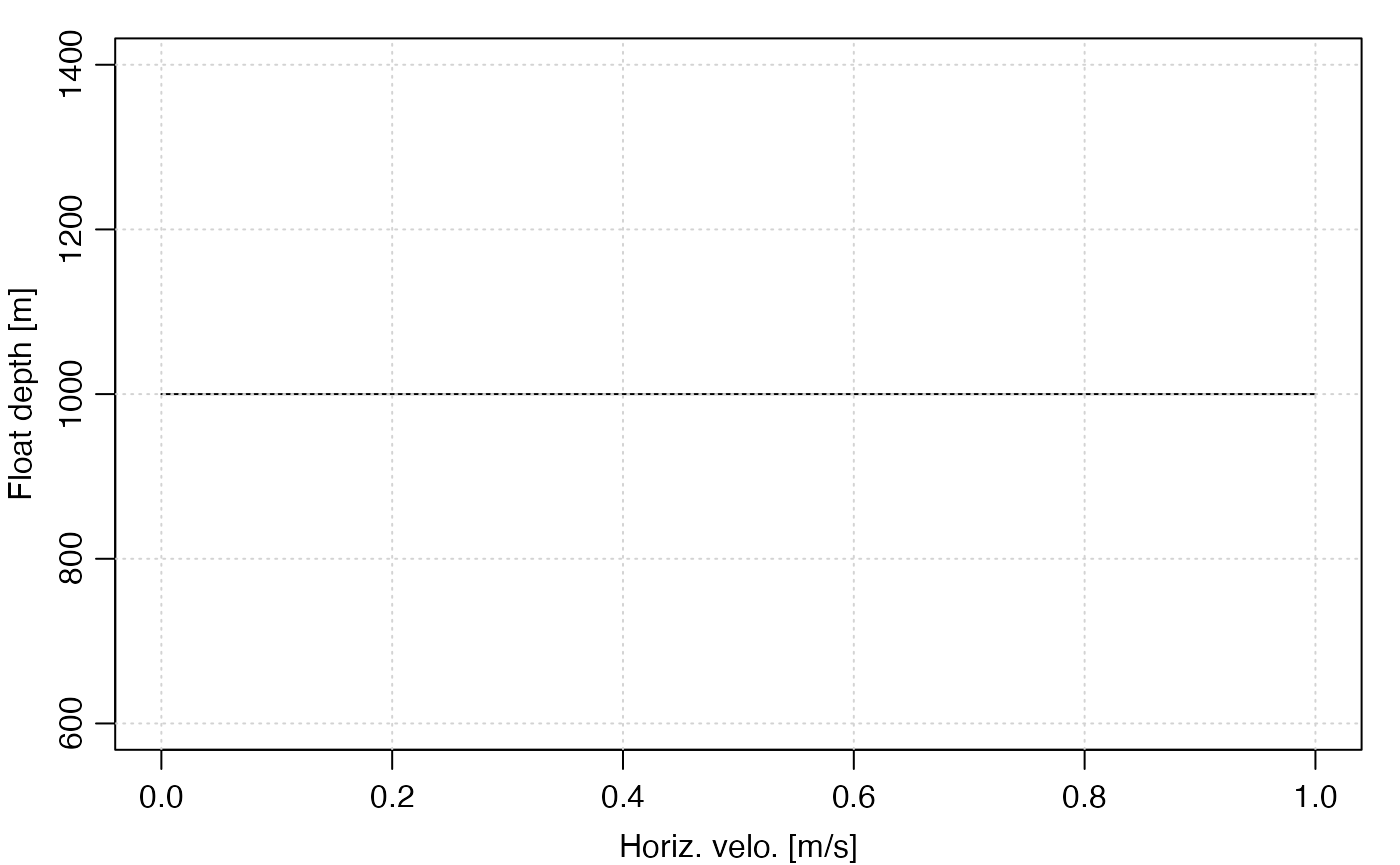
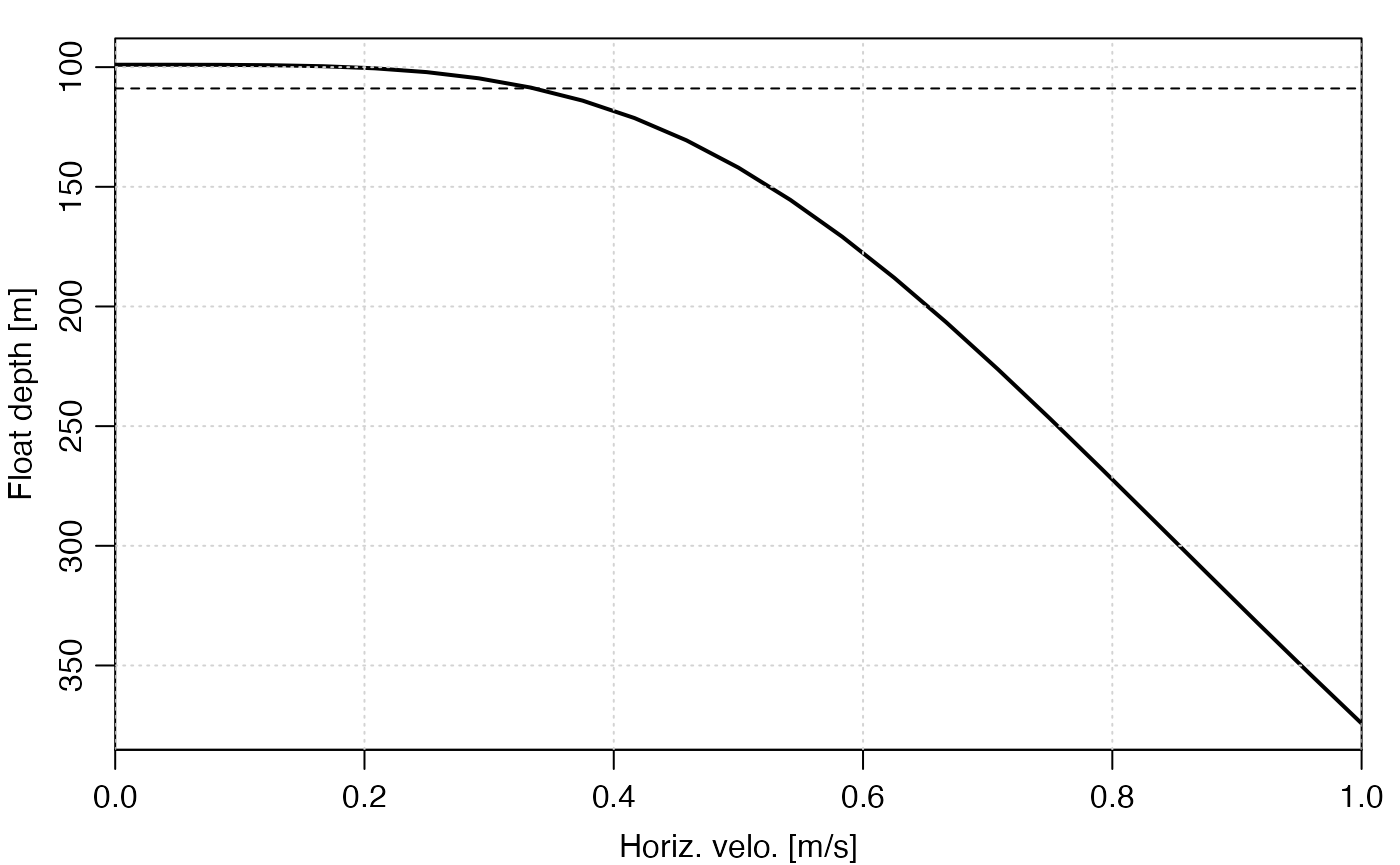
fix broken vignette knockdown demo
I was showing the height of the bottom element instead of the top one.
This was a result of my having reversed the order of entries in
mooring() output.

diff --git a/docs/articles/mooring.html b/docs/articles/mooring.html
@@ -97,7 +97,7 @@
       <h1 data-toc-skip>The mooring package</h1>
                         <h4 class="author">Dan Kelley (<a href="https://orcid.org/0000-0001-7808-5911" class="uri">https://orcid.org/0000-0001-7808-5911</a>)</h4>
             
-            <h4 class="date">2021-06-27</h4>
+            <h4 class="date">2021-06-28</h4>
       
       <small class="dont-index">Source: <a href="https://github.com/dankelley/mooring/blob/master/vignettes/mooring.Rmd"><code>vignettes/mooring.Rmd</code></a></small>
       <div class="hidden name"><code>mooring.Rmd</code></div>
@@ -274,20 +274,20 @@
 <span class="va">depths</span> <span class="op">&lt;-</span> <span class="fu"><a href="https://rdrr.io/r/base/lapply.html">sapply</a></span><span class="op">(</span><span class="va">us</span>, <span class="kw">function</span><span class="op">(</span><span class="va">u</span><span class="op">)</span>
                  <span class="op">{</span>
                      <span class="va">mdk</span> <span class="op">&lt;-</span> <span class="fu"><a href="../reference/knockdown.html">knockdown</a></span><span class="op">(</span><span class="va">md</span>, <span class="va">u</span><span class="op">)</span>
-                     <span class="fu"><a href="../reference/depth.html">depth</a></span><span class="op">(</span><span class="fu"><a href="https://rdrr.io/r/utils/head.html">tail</a></span><span class="op">(</span><span class="va">mdk</span>,<span class="fl">1</span><span class="op">)</span><span class="op">)</span>
+                     <span class="fu"><a href="../reference/depth.html">depth</a></span><span class="op">(</span><span class="va">mdk</span><span class="op">)</span><span class="op">[</span><span class="fl">1</span><span class="op">]</span>
                  <span class="op">}</span><span class="op">)</span>
 <span class="fu"><a href="https://rdrr.io/r/graphics/par.html">par</a></span><span class="op">(</span>mar<span class="op">=</span><span class="fu"><a href="https://rdrr.io/r/base/c.html">c</a></span><span class="op">(</span><span class="fl">3</span>,<span class="fl">3</span>,<span class="fl">1</span>,<span class="fl">1</span><span class="op">)</span>, mgp<span class="op">=</span><span class="fu"><a href="https://rdrr.io/r/base/c.html">c</a></span><span class="op">(</span><span class="fl">2</span>,<span class="fl">0.7</span>,<span class="fl">0</span><span class="op">)</span><span class="op">)</span>
-<span class="fu"><a href="https://rdrr.io/r/graphics/plot.default.html">plot</a></span><span class="op">(</span><span class="va">us</span>, <span class="va">depths</span>, ylim<span class="op">=</span><span class="fu"><a href="https://rdrr.io/r/base/rev.html">rev</a></span><span class="op">(</span><span class="fu"><a href="https://rdrr.io/r/base/range.html">range</a></span><span class="op">(</span><span class="va">depths</span><span class="op">)</span><span class="op">)</span>, type<span class="op">=</span><span class="st">"l"</span>, pch<span class="op">=</span><span class="fl">20</span>, cex<span class="op">=</span><span class="fl">0.5</span>,
+<span class="fu"><a href="https://rdrr.io/r/graphics/plot.default.html">plot</a></span><span class="op">(</span><span class="va">us</span>, <span class="va">depths</span>, xaxs<span class="op">=</span><span class="st">"i"</span>, ylim<span class="op">=</span><span class="fu"><a href="https://rdrr.io/r/base/rev.html">rev</a></span><span class="op">(</span><span class="fu"><a href="https://rdrr.io/r/base/range.html">range</a></span><span class="op">(</span><span class="va">depths</span><span class="op">)</span><span class="op">)</span>, type<span class="op">=</span><span class="st">"l"</span>, lwd<span class="op">=</span><span class="fl">2</span>,
      xlab<span class="op">=</span><span class="st">"Horiz. velo. [m/s]"</span>, ylab<span class="op">=</span><span class="st">"Float depth [m]"</span><span class="op">)</span>
 <span class="fu"><a href="https://rdrr.io/r/graphics/grid.html">grid</a></span><span class="op">(</span><span class="op">)</span>
-<span class="fu"><a href="https://rdrr.io/r/graphics/abline.html">abline</a></span><span class="op">(</span>h<span class="op">=</span><span class="fl">100</span><span class="op">*</span><span class="fu"><a href="https://rdrr.io/r/base/c.html">c</a></span><span class="op">(</span><span class="fl">1</span>, <span class="fl">1.1</span><span class="op">)</span>, col<span class="op">=</span><span class="fu"><a href="https://rdrr.io/r/base/c.html">c</a></span><span class="op">(</span><span class="fl">4</span>,<span class="fl">2</span><span class="op">)</span><span class="op">)</span></code></pre></div>
+<span class="fu"><a href="https://rdrr.io/r/graphics/abline.html">abline</a></span><span class="op">(</span>h<span class="op">=</span><span class="fl">1.1</span><span class="op">*</span><span class="fu"><a href="../reference/depth.html">depth</a></span><span class="op">(</span><span class="va">md</span><span class="op">)</span><span class="op">[</span><span class="fl">1</span><span class="op">]</span>, lty<span class="op">=</span><span class="fl">2</span><span class="op">)</span></code></pre></div>
 <div class="figure" style="text-align: center">
-<img src="mooring_files/figure-html/unnamed-chunk-13-1.png" alt="**Dependence of knockdown on current.**" width="700.0000032"><p class="caption">
-<strong>Dependence of knockdown on current.</strong>
+<img src="mooring_files/figure-html/unnamed-chunk-13-1.png" alt="**Dependence of knockdown on current. Solid: depth of top mooring element (a float). Dashed: 10% increase in that depth.**" width="700.0000032"><p class="caption">
+<strong>Dependence of knockdown on current. Solid: depth of top mooring element (a float). Dashed: 10% increase in that depth.</strong>
 </p>
 </div>
-<p>The blue and red horizontal lines indicate zero knockdown (for zero current) and 10 percent knockdown, respectively. The diagram suggests that if a 10 depth increase is taken as a design limit, that this float will be sufficient up to speeds of approximately <span class="math inline">\(0.3\)</span>m/s.</p>
-<p><strong>Exercise 3: Find a float that will hold this mooring taut in 2m/s current.</strong></p>
+<p>This analysis suggests that a <span class="math inline">\(0.3\)</span>m/s current could yield a 10 percent increase in depth of the top mooring element, so the mooring needs more buoyancy if greater mooring stiffness is required, or if currents exceed this value.</p>
+<p><strong>Exercise 3: Suggest a float that will hold this mooring taut in 2m/s current.</strong></p>
 </div>
 </div>
 <div id="solutions-to-exercises" class="section level1">
@@ -333,11 +333,11 @@
 <span class="fu"><a href="https://rdrr.io/r/graphics/plot.default.html">plot</a></span><span class="op">(</span><span class="va">df</span><span class="op">$</span><span class="va">drag</span>, <span class="va">df</span><span class="op">$</span><span class="va">buoyancy</span>, xlab<span class="op">=</span><span class="st">"Drag Force [N]"</span>, ylab<span class="op">=</span><span class="st">"Buoyancy Force [N]"</span>, log<span class="op">=</span><span class="st">"xy"</span><span class="op">)</span>
 <span class="co"># 3</span>
 <span class="va">drag</span> <span class="op">&lt;-</span> <span class="fu"><a href="https://rdrr.io/r/base/seq.html">seq</a></span><span class="op">(</span><span class="fu"><a href="https://rdrr.io/r/base/Extremes.html">min</a></span><span class="op">(</span><span class="va">df</span><span class="op">$</span><span class="va">drag</span><span class="op">)</span>, <span class="fu"><a href="https://rdrr.io/r/base/Extremes.html">max</a></span><span class="op">(</span><span class="va">df</span><span class="op">$</span><span class="va">drag</span><span class="op">)</span>, length.out<span class="op">=</span><span class="fl">100</span><span class="op">)</span>
-<span class="va">buoyancy</span> <span class="op">&lt;-</span> <span class="va">drag</span><span class="op">^</span><span class="op">(</span><span class="fl">3</span><span class="op">/</span><span class="fl">2</span><span class="op">)</span>
+<span class="va">buoyancy</span> <span class="op">&lt;-</span> <span class="fl">10</span><span class="op">*</span><span class="va">drag</span><span class="op">^</span><span class="op">(</span><span class="fl">3</span><span class="op">/</span><span class="fl">2</span><span class="op">)</span> <span class="co"># the factor is just for illustration</span>
 <span class="fu"><a href="https://rdrr.io/r/graphics/lines.html">lines</a></span><span class="op">(</span><span class="va">drag</span>, <span class="va">buoyancy</span><span class="op">)</span></code></pre></div>
 <div class="figure" style="text-align: center">
-<img src="mooring_files/figure-html/unnamed-chunk-16-1.png" alt="**Float drag-buoyancy relationship.**" width="700.0000032"><p class="caption">
-<strong>Float drag-buoyancy relationship.</strong>
+<img src="mooring_files/figure-html/unnamed-chunk-16-1.png" alt="**Float drag-buoyancy relationship, in log-log scaling. Circles: data for the built-in float types, assuming a 1m/s current. Line: a scaling line of slope 3/2, with an arbitrary vertical shift for comparison with the data cloud.**" width="700.0000032"><p class="caption">
+<strong>Float drag-buoyancy relationship, in log-log scaling. Circles: data for the built-in float types, assuming a 1m/s current. Line: a scaling line of slope 3/2, with an arbitrary vertical shift for comparison with the data cloud.</strong>
 </p>
 </div>
 <p>The data cloud slope is similar to that of the indicated scaling line, created by assuming that drag is proportional to scale squared, while buoyancy is proportional to scale cubed. (Other factors are involved, so only the slope is of significance here.)</p>
@@ -346,7 +346,7 @@
 <div id="exercise-3" class="section level2">
 <h2 class="hasAnchor">
 <a href="#exercise-3" class="anchor"></a>Exercise 3</h2>
-<p>To find a float that will hold this mooring taut in 2m/s current, one approach is to use <code><a href="../reference/app.html">app()</a></code>, which has a pulldown menu for the float type. Another approach is to start with the table produced in Exercise 1, and try different float models in the code given in the “Mooring Design” section.</p>
+<p>To find a float that will hold this mooring reasonably taut in 2m/s current, one approach is to use <code><a href="../reference/app.html">app()</a></code>, which has a pulldown menu for the float type. Another approach is to start with the table produced in Exercise 1, and try different float models in the code given in the “Mooring Design” section. Of course, a criterion on tautness must be the starting point in such an analysis, and for simplicity, we take it to be 10 percent increase in the depth of the top mooring element.</p>
 <p>Exploration along these lines reveals that</p>
 <div class="sourceCode" id="cb20"><pre class="downlit sourceCode r">
 <code class="sourceCode R"><span class="va">f</span> <span class="op">&lt;-</span> <span class="fu"><a href="../reference/float.html">float</a></span><span class="op">(</span><span class="st">"CDMS 2m sphere"</span><span class="op">)</span></code></pre></div>

diff --git a/docs/reference/mooring-package.html b/docs/reference/mooring-package.html
@@ -6,7 +6,7 @@
 <meta http-equiv="X-UA-Compatible" content="IE=edge">
 <meta name="viewport" content="width=device-width, initial-scale=1.0">
 
-<title>Create a mooring — mooring • mooring</title>
+<title>mooring: A Package for Analysing Oceanographic Moorings — mooring-package • mooring</title>
 
 
 <!-- jquery -->
@@ -39,10 +39,13 @@
 
 
 
-<meta property="og:title" content="Create a mooring — mooring" />
-<meta property="og:description" content="Assemble components into a mooring, starting with an anchor, created with anchor(),
-and then adding wires, created with wire(), instruments, created with instrument(),
-floats, created with float(), etc." />
+<meta property="og:title" content="mooring: A Package for Analysing Oceanographic Moorings — mooring-package" />
+<meta property="og:description" content="The mooring package provides functions for working with
+oceanographic moorings.  The example provides a good
+starting point for learning, and the documentation
+for the key function, mooring(), provides the
+next logical step in learning, after which the
+vignettes should be consulted." />
 
 
 
@@ -137,54 +140,37 @@ floats, created with float(), etc." />
 <div class="row">
   <div class="col-md-9 contents">
     <div class="page-header">
-    <h1>Create a mooring</h1>
+    <h1>mooring: A Package for Analysing Oceanographic Moorings</h1>
     <small class="dont-index">Source: <a href='https://github.com/dankelley/mooring/blob/master/R/mooring.R'><code>R/mooring.R</code></a></small>
-    <div class="hidden name"><code>mooring.Rd</code></div>
+    <div class="hidden name"><code>mooring-package.Rd</code></div>
     </div>
 
     <div class="ref-description">
-    <p>Assemble components into a mooring, starting with an anchor, created with <code><a href='anchor.html'>anchor()</a></code>,
-and then adding wires, created with <code><a href='wire.html'>wire()</a></code>, instruments, created with <code><a href='instrument.html'>instrument()</a></code>,
-floats, created with <code><a href='float.html'>float()</a></code>, etc.</p>
+    <p>The mooring package provides functions for working with
+oceanographic moorings.  The example provides a good
+starting point for learning, and the documentation
+for the key function, <code><a href='mooring.html'>mooring()</a></code>, provides the
+next logical step in learning, after which the
+vignettes should be consulted.</p>
     </div>
 
-    <pre class="usage"><span class='fu'>mooring</span><span class='op'>(</span><span class='va'>...</span><span class='op'>)</span></pre>
 
-    <h2 class="hasAnchor" id="arguments"><a class="anchor" href="#arguments"></a>Arguments</h2>
-    <table class="ref-arguments">
-    <colgroup><col class="name" /><col class="desc" /></colgroup>
-    <tr>
-      <th>...</th>
-      <td><p>two or more elementary objects, e.g. as created by <code><a href='anchor.html'>anchor()</a></code>,
-<code><a href='chain.html'>chain()</a></code>, <code><a href='wire.html'>wire()</a></code>, or <code><a href='float.html'>float()</a></code>.</p></td>
-    </tr>
-    </table>
 
-    <h2 class="hasAnchor" id="author"><a class="anchor" href="#author"></a>Author</h2>
-
-    <p>Dan Kelley</p>
 
     <h2 class="hasAnchor" id="examples"><a class="anchor" href="#examples"></a>Examples</h2>
-    <pre class="examples"><div class='input'><span class='co'># Example 1: most basic case: anchor, line, float.</span>
-<span class='kw'><a href='https://rdrr.io/r/base/library.html'>library</a></span><span class='op'>(</span><span class='va'><a href='https://dankelley.github.io/mooring/'>mooring</a></span><span class='op'>)</span>
-<span class='va'>m</span> <span class='op'>&lt;-</span> <span class='fu'>mooring</span><span class='op'>(</span><span class='fu'><a href='anchor.html'>anchor</a></span><span class='op'>(</span>depth<span class='op'>=</span><span class='fl'>100</span><span class='op'>)</span>, <span class='fu'><a href='wire.html'>wire</a></span><span class='op'>(</span>length<span class='op'>=</span><span class='fl'>80</span><span class='op'>)</span>, <span class='fu'><a href='float.html'>float</a></span><span class='op'>(</span><span class='st'>"HMB 20"</span><span class='op'>)</span><span class='op'>)</span>
-
-<span class='co'># Example 2: mooring with mid-depth instrument and a float</span>
-<span class='co'># just below it.  Note the definition of some functions,</span>
-<span class='co'># to simplify the mooring setup. The final three lines</span>
-<span class='co'># display the mooring in 0.5m/s current.</span>
-<span class='co'># Exercise: add more floation between instruments,</span>
-<span class='co'># to stiffen this floppy mooring.</span>
-<span class='va'>A</span> <span class='op'>&lt;-</span> <span class='fu'><a href='anchor.html'>anchor</a></span><span class='op'>(</span>depth<span class='op'>=</span><span class='fl'>100</span><span class='op'>)</span>
-<span class='va'>W</span> <span class='op'>&lt;-</span> <span class='kw'>function</span><span class='op'>(</span><span class='va'>l</span><span class='op'>)</span> <span class='fu'><a href='wire.html'>wire</a></span><span class='op'>(</span><span class='st'>"3/8in wire/jack"</span>, length<span class='op'>=</span><span class='va'>l</span><span class='op'>)</span>
-<span class='va'>I</span> <span class='op'>&lt;-</span> <span class='fu'><a href='instrument.html'>instrument</a></span><span class='op'>(</span><span class='st'>"SBE37 microcat clamp-on style"</span><span class='op'>)</span>
-<span class='cn'>F</span> <span class='op'>&lt;-</span> <span class='fu'><a href='float.html'>float</a></span><span class='op'>(</span><span class='st'>"HMB 20"</span><span class='op'>)</span>
-<span class='va'>m</span> <span class='op'>&lt;-</span> <span class='fu'>mooring</span><span class='op'>(</span><span class='va'>A</span>, <span class='fu'>W</span><span class='op'>(</span><span class='fl'>20</span><span class='op'>)</span>, <span class='va'>I</span>, <span class='fu'>W</span><span class='op'>(</span><span class='fl'>20</span><span class='op'>)</span>, <span class='va'>I</span>, <span class='fu'>W</span><span class='op'>(</span><span class='fl'>20</span><span class='op'>)</span>, <span class='va'>I</span>, <span class='fu'>W</span><span class='op'>(</span><span class='fl'>20</span><span class='op'>)</span>, <span class='cn'>F</span><span class='op'>)</span>
+    <pre class="examples"><div class='input'><span class='kw'><a href='https://rdrr.io/r/base/library.html'>library</a></span><span class='op'>(</span><span class='va'><a href='https://dankelley.github.io/mooring/'>mooring</a></span><span class='op'>)</span>
+<span class='co'># Illustrate the deformation of a 100-m mooring in a 0.5 m/s</span>
+<span class='co'># (roughly 1 knot) current. Buoyancy is provided with a float</span>
+<span class='co'># of diameter 20 inches.</span>
+<span class='va'>m</span> <span class='op'>&lt;-</span> <span class='fu'><a href='mooring.html'>mooring</a></span><span class='op'>(</span><span class='fu'><a href='anchor.html'>anchor</a></span><span class='op'>(</span>depth<span class='op'>=</span><span class='fl'>120</span><span class='op'>)</span>, <span class='fu'><a href='wire.html'>wire</a></span><span class='op'>(</span>length<span class='op'>=</span><span class='fl'>100</span><span class='op'>)</span>, <span class='fu'><a href='float.html'>float</a></span><span class='op'>(</span><span class='st'>"HMB 20"</span><span class='op'>)</span><span class='op'>)</span>
+<span class='fu'><a href='https://rdrr.io/r/graphics/par.html'>par</a></span><span class='op'>(</span>mfrow<span class='op'>=</span><span class='fu'><a href='https://rdrr.io/r/base/c.html'>c</a></span><span class='op'>(</span><span class='fl'>1</span>, <span class='fl'>3</span><span class='op'>)</span><span class='op'>)</span>
+<span class='fu'><a href='https://rdrr.io/r/graphics/plot.default.html'>plot</a></span><span class='op'>(</span><span class='va'>m</span><span class='op'>)</span>
+<span class='co'># Must discretise the wire portion to resolve the shape.</span>
 <span class='va'>md</span> <span class='op'>&lt;-</span> <span class='fu'><a href='discretise.html'>discretise</a></span><span class='op'>(</span><span class='va'>m</span><span class='op'>)</span>
-<span class='va'>mdk</span> <span class='op'>&lt;-</span> <span class='fu'><a href='knockdown.html'>knockdown</a></span><span class='op'>(</span><span class='va'>md</span>, <span class='fl'>0.5</span><span class='op'>)</span>
+<span class='va'>mdk</span> <span class='op'>&lt;-</span> <span class='fu'><a href='knockdown.html'>knockdown</a></span><span class='op'>(</span><span class='va'>md</span>, u<span class='op'>=</span><span class='fl'>0.5</span><span class='op'>)</span>
 <span class='fu'><a href='https://rdrr.io/r/graphics/plot.default.html'>plot</a></span><span class='op'>(</span><span class='va'>mdk</span><span class='op'>)</span>
-</div><div class='img'><img src='mooring-1.png' alt='' width='700' height='433' /></div><div class='input'>
-</div></pre>
+
+</div><div class='img'><img src='mooring-package-1.png' alt='' width='700' height='433' /></div></pre>
   </div>
   <div class="col-md-3 hidden-xs hidden-sm" id="pkgdown-sidebar">
     <nav id="toc" data-toggle="toc" class="sticky-top">

diff --git a/docs/articles/mooring_elements.html b/docs/articles/mooring_elements.html
@@ -97,7 +97,7 @@
       <h1 data-toc-skip>Default Values for Mooring Elements</h1>
                         <h4 class="author">Dan Kelley (<a href="https://orcid.org/0000-0001-7808-5911" class="uri">https://orcid.org/0000-0001-7808-5911</a>)</h4>
             
-            <h4 class="date">2021-06-27</h4>
+            <h4 class="date">2021-06-28</h4>
       
       <small class="dont-index">Source: <a href="https://github.com/dankelley/mooring/blob/master/vignettes/mooring_elements.Rmd"><code>vignettes/mooring_elements.Rmd</code></a></small>
       <div class="hidden name"><code>mooring_elements.Rmd</code></div>

diff --git a/docs/articles/object_orientation.html b/docs/articles/object_orientation.html
@@ -97,7 +97,7 @@
       <h1 data-toc-skip>Object-orientation Scheme</h1>
                         <h4 class="author">Dan Kelley (<a href="https://orcid.org/0000-0001-7808-5911" class="uri">https://orcid.org/0000-0001-7808-5911</a>)</h4>
             
-            <h4 class="date">2021-06-27</h4>
+            <h4 class="date">2021-06-28</h4>
       
       <small class="dont-index">Source: <a href="https://github.com/dankelley/mooring/blob/master/vignettes/object_orientation.Rmd"><code>vignettes/object_orientation.Rmd</code></a></small>
       <div class="hidden name"><code>object_orientation.Rmd</code></div>

diff --git a/docs/articles/table_tennis.html b/docs/articles/table_tennis.html
@@ -97,7 +97,7 @@
       <h1 data-toc-skip>Test Case with Table Tennis Ball</h1>
                         <h4 class="author">Dan Kelley (<a href="https://orcid.org/0000-0001-7808-5911" class="uri">https://orcid.org/0000-0001-7808-5911</a>)</h4>
             
-            <h4 class="date">2021-06-27</h4>
+            <h4 class="date">2021-06-28</h4>
       
       <small class="dont-index">Source: <a href="https://github.com/dankelley/mooring/blob/master/vignettes/table_tennis.Rmd"><code>vignettes/table_tennis.Rmd</code></a></small>
       <div class="hidden name"><code>table_tennis.Rmd</code></div>

diff --git a/docs/articles/mooring_model.html b/docs/articles/mooring_model.html
@@ -97,7 +97,7 @@
       <h1 data-toc-skip>Mooring Model</h1>
                         <h4 class="author">Dan Kelley (<a href="https://orcid.org/0000-0001-7808-5911" class="uri">https://orcid.org/0000-0001-7808-5911</a>)</h4>
             
-            <h4 class="date">2021-06-27</h4>
+            <h4 class="date">2021-06-28</h4>
       
       <small class="dont-index">Source: <a href="https://github.com/dankelley/mooring/blob/master/vignettes/mooring_model.Rmd"><code>vignettes/mooring_model.Rmd</code></a></small>
       <div class="hidden name"><code>mooring_model.Rmd</code></div>

diff --git a/docs/articles/example.html b/docs/articles/example.html
@@ -97,7 +97,7 @@
       <h1 data-toc-skip>A Practical Example</h1>
                         <h4 class="author">Dan Kelley (<a href="https://orcid.org/0000-0001-7808-5911" class="uri">https://orcid.org/0000-0001-7808-5911</a>)</h4>
             
-            <h4 class="date">2021-06-27</h4>
+            <h4 class="date">2021-06-28</h4>
       
       <small class="dont-index">Source: <a href="https://github.com/dankelley/mooring/blob/master/vignettes/example.Rmd"><code>vignettes/example.Rmd</code></a></small>
       <div class="hidden name"><code>example.Rmd</code></div>

diff --git a/docs/reference/index.html b/docs/reference/index.html
@@ -256,9 +256,15 @@
       </tr><tr>
         
         <td>
-          <p><code><a href="mooring.html">mooring()</a></code> </p>
+          <p><code><a href="mooring-package.html">mooring-package</a></code> </p>
         </td>
         <td><p>mooring: A Package for Analysing Oceanographic Moorings</p></td>
+      </tr><tr>
+        
+        <td>
+          <p><code><a href="mooring.html">mooring()</a></code> </p>
+        </td>
+        <td><p>Create a mooring</p></td>
       </tr><tr>
         
         <td>
